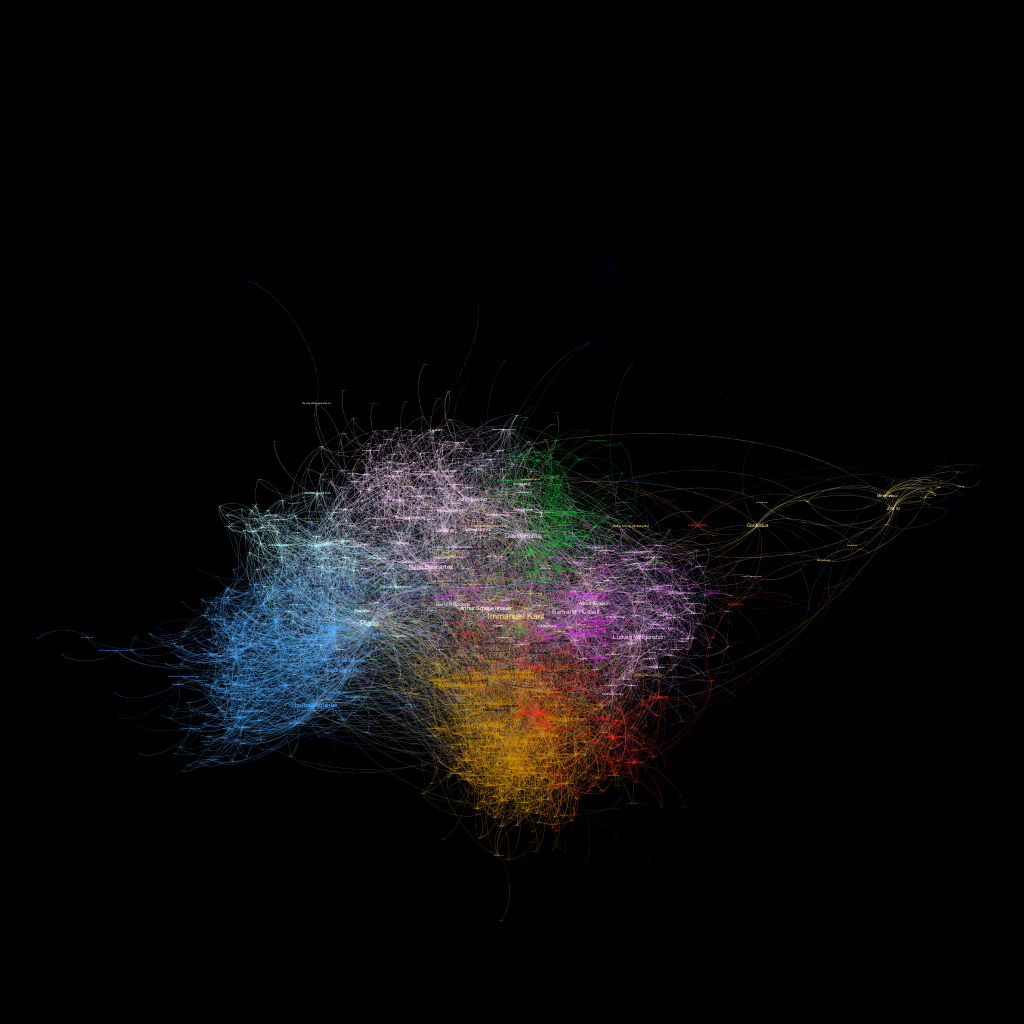
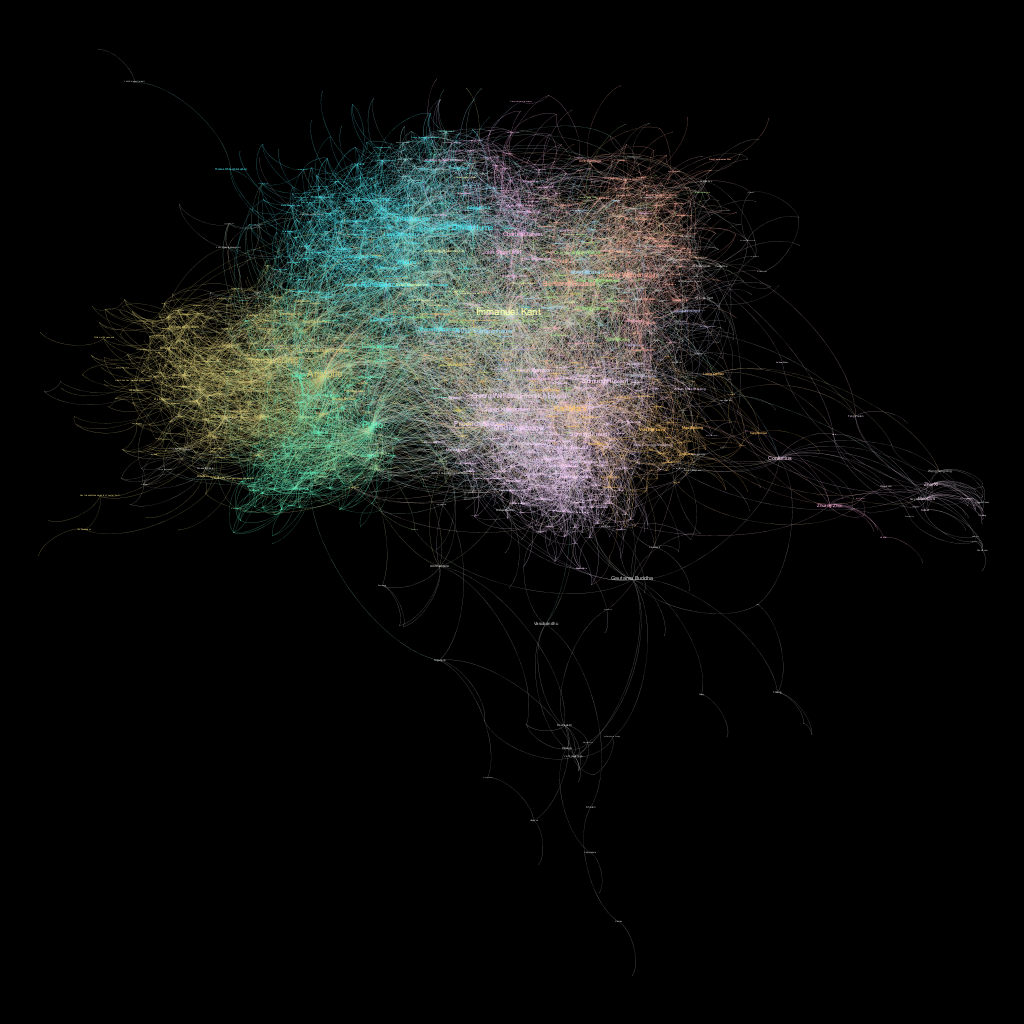
content

Changed region(s): [[0.0938, 0.0938, 0.9688, 0.8438]]

diff --git a/_posts/2022-03-19-wikipedia-philosophers.md b/_posts/2022-03-19-wikipedia-philosophers.md
@@ -1,0 +1,108 @@
+---
+layout: post
+title:  "Wikipedia Science Maps: Philosophers"
+date:   2022-03-19
+tags:
+  - philosophy
+  - text-analytics
+  - network-analysis
+---
+
+<small>This post is part of a series on how to draw cool maps of science with Wikipedia data. In each episode I will present a different method and/or type of map and provide you with a concrete Python code example. I will not explain the code in much detail since I assume that you already know Python well enough to follow. If you don't, I recommend checking out the many free Python turorials online.</small>
+
+Today, I'm showing you how to make this network of philosophers:
+
+<img src="/img/wiki-philosophers/all.png"/>
+<img src="/img/wiki-philosophers/all_zoom.png"/>
+
+Does the shape of this network remind you of a brain or Jellyfish, too? 🧠🎊 
+
+Ok, so what you see here is how famous and not so famous philosophers are connected to each other because Wikipedians have associated them in this way. More precisely, the nodes you see in this network represent Wikipedia articles on philosophers, and the edges represent hyperlink connections Wikipedia editors have created between these articles. If only the article of one philosopher points via a hyperlink to the article of another one, I set the edge weight to 1. If hyperlinks are two-directional, I set the edge weight to 2.
+
+The size of a name represents the betweenness centrality of the associated node and can be interpreted as a measure for how many paths between any two philosophers will pass through this node. As we see, Aristotle, Immanuel Kant, Plato, and Karl-Marx are the leading figures in this regard.
+
+A name's color indicates to which "community" that philosopher belongs. To define these communities, I used the [Louvain method](https://en.wikipedia.org/wiki/Louvain_method), a widely-used alghorithm that optimizes the relative density of edges inside communities with respect to edges outside communities. 
+
+Overall, the found communities seem to make sense. For example, here are communities of Ancient Greek and Roman philosophers intermingling with Persian and scholastic philosophers.
+
+<img src="/img/wiki-philosophers/greek.png" />
+
+
+To be honest, changing the random seed for initializing the alghorithm yielded slightly different communities each time, but this is a known problem. While a number of indicators have been proposed to guide the choice of "the best" community structure, I have not even opened that box. My philosopher's network is just a toy example after all.
+ 
+
+
+
+So how did I make it?
+
+
+## Modules first!
+
+For our example we need a couple of pretty amazing python libraries. To import them, just write: 
+
+```python
+# for scraping
+import requests
+from bs4 import BeautifulSoup
+from bs4.element import NavigableString, Tag
+
+# for graphs
+import networkx as nx
+import networkx.algorithms.community as nx_comm
+
+# for data and plotting
+import pandas as pd
+import seaborn as sns
+import matplotlib.pyplot as plt
+```
+
+
+## Nodes from lists
+
+The first step in creating our little network is to collect a set of nodes, that is philosophers. We could approach this task by writing down all philosophers that come into our mind, or we could look names up in books titled "The greatest philosophers of all times" or worse. However, since we are using Wikipedia, we better make sure that for each name we pick, there is a corresponding Wikipedia article. 
+
+My trick was to make use of a very strange habbit of Wikipedians. Have you been aware that Wikipedians are obsessed with lists of all sorts? In fact, the epitome of this collective obsession is the notorious [List of lists of lists](https://en.wikipedia.org/wiki/List_of_lists_of_lists): 
+
+> This is a list of lists of lists, an article that is a list of articles that are themselves lists of article lists. In other words, each of the articles linked here is an index to multiple lists on a topic. Some of the linked articles may contain lists of lists as well.
+
+Meta-meta-overdose! But why not start here? Ok, let's see...there we go: ["Philosophy"](https://en.wikipedia.org/wiki/List_of_lists_of_lists#Philosophy)...and yes...a ["Lists of philosophers"](https://en.wikipedia.org/wiki/Lists_of_philosophers). Click to decend from the meta-meta level to the meta level. And there we go again: 
+four different ["Lists of philosophers by name"](https://en.wikipedia.org/wiki/Lists_of_philosophers#Lists_of_philosophers_by_name). Bingo!
+
+
+Before we actually scrape these lists, we first define a function that takes a given url as input, downloads and parses the html and returns the parsed representation as a `soup` object.
+
+
+```python
+def get_soup(url):
+    response = requests.get(url)
+    if response.ok:
+        # response.encoding = "utf-8"
+        return BeautifulSoup(response.content, 'html.parser')
+    return BeautifulSoup("", 'html.parser')
+```
+
+Then we tell Python the urls of the four philosopher lists, open each, make a `soup`, single out the `mw-parser-output`, and iterate through all list entries to extract the hyperlink and name of each mentioned philosopher (`item.a["href"].split("/wiki/")[-1]: item.a["title"]`) into a dictionary named `philosophers`.
+
+```python
+urls = [
+    "https://en.wikipedia.org/wiki/" + title
+    for title in [
+        "List_of_philosophers_(A%E2%80%93C)",
+        "List_of_philosophers_(D%E2%80%93H)",
+        "List_of_philosophers_(I%E2%80%93Q)",
+        "List_of_philosophers_(R%E2%80%93Z)",
+    ]
+]
+
+philosophers = {
+    item.a["href"].split("/wiki/")[-1]: item.a["title"]
+    for url in urls
+    for child in get_soup(url).find("div", {"class":"mw-parser-output"}).contents
+    for item in child 
+    if child.name == "ul"
+    if item.name == "li"
+}
+print(len(philosophers))
+```
+
+...to be continued!
